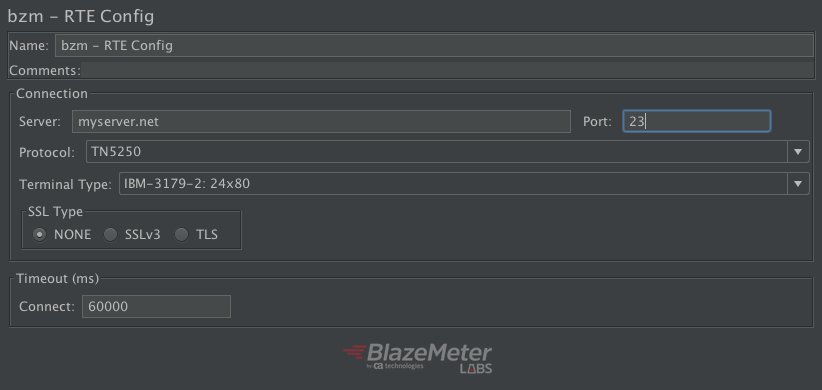
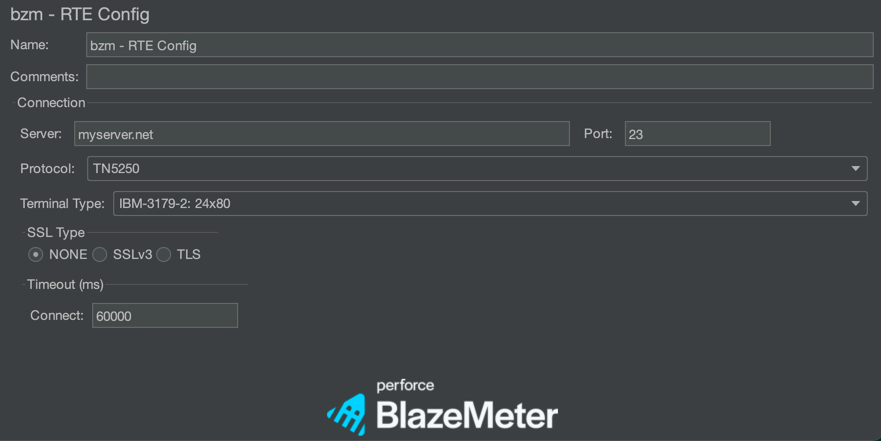
Release v3.3.1 (#44)
Blazemeter rebranding

Changed region(s): [[0.0, 0.0, 1.0, 0.8], [0.365, 0.8615, 0.6387, 0.9846]]

diff --git a/src/main/java/com/blazemeter/jmeter/rte/sampler/gui/RTESamplerPanel.java b/src/main/java/com/blazemeter/jmeter/rte/sampler/gui/RTESamplerPanel.java
@@ -1,8 +1,10 @@
 package com.blazemeter.jmeter.rte.sampler.gui;
 
+import com.blazemeter.jmeter.commons.BlazemeterLabsLogo;
 import com.blazemeter.jmeter.rte.core.AttentionKey;
 import com.blazemeter.jmeter.rte.sampler.Action;
 import com.blazemeter.jmeter.rte.sampler.RTESampler;
+import java.awt.BorderLayout;
 import java.awt.FlowLayout;
 import java.awt.Font;
 import java.awt.GridLayout;
@@ -28,8 +30,8 @@ public class RTESamplerPanel extends JPanel {
   private static final int TIME_WIDTH = 60;
   private static final String TIMEOUT_LABEL = "Timeout (millis): ";
   private static final int LABEL_TABULATION_SPACE = 50;
-  private final JPanel requestPanel;
-  private final JPanel waitPanel;
+  private JPanel requestPanel;
+  private JPanel waitPanel;
   private final ButtonGroup actionsGroup = new ButtonGroup();
   private final Map<Action, JRadioButton> actions = new EnumMap<>(Action.class);
   private InputPanel payloadPanel;
@@ -76,14 +78,25 @@ public class RTESamplerPanel extends JPanel {
   private JPanel waitDisconnectPanel;
 
   public RTESamplerPanel() {
-    GroupLayout layout = new GroupLayout(this);
+    setLayout(new BorderLayout());
+
+    JPanel contentPanel = createContentPanel();
+    BlazemeterLabsLogo blazemeterLabsLogo = new BlazemeterLabsLogo(
+        "https://github.com/Blazemeter/RTEPlugin");
+
+    add(contentPanel, BorderLayout.CENTER);
+    add(blazemeterLabsLogo, BorderLayout.SOUTH);
+  }
+
+  private JPanel createContentPanel() {
+    JPanel contentPanel = new JPanel();
+    GroupLayout layout = new GroupLayout(contentPanel);
     layout.setAutoCreateGaps(true);
-    this.setLayout(layout);
+    contentPanel.setLayout(layout);
 
     JPanel modePanel = buildModePanel();
     requestPanel = buildRequestPanel();
     waitPanel = buildWaitsPanel();
-    BlazemeterLabsLogo blazemeterLabsLogo = new BlazemeterLabsLogo();
 
     layout.setHorizontalGroup(layout.createParallelGroup()
         .addComponent(modePanel, GroupLayout.DEFAULT_SIZE, GroupLayout.PREFERRED_SIZE,
@@ -91,8 +104,6 @@ public class RTESamplerPanel extends JPanel {
         .addComponent(requestPanel, GroupLayout.DEFAULT_SIZE, GroupLayout.PREFERRED_SIZE,
             Short.MAX_VALUE)
         .addComponent(waitPanel, GroupLayout.DEFAULT_SIZE, GroupLayout.PREFERRED_SIZE,
-            Short.MAX_VALUE)
-        .addComponent(blazemeterLabsLogo, GroupLayout.DEFAULT_SIZE, GroupLayout.PREFERRED_SIZE,
             Short.MAX_VALUE));
     layout.setVerticalGroup(layout.createSequentialGroup()
         .addComponent(modePanel, GroupLayout.PREFERRED_SIZE, GroupLayout.PREFERRED_SIZE,
@@ -100,9 +111,9 @@ public class RTESamplerPanel extends JPanel {
         .addComponent(requestPanel)
         .addComponent(waitPanel, GroupLayout.PREFERRED_SIZE, GroupLayout.PREFERRED_SIZE,
             GroupLayout.PREFERRED_SIZE)
-        .addComponent(blazemeterLabsLogo, GroupLayout.PREFERRED_SIZE, GroupLayout.PREFERRED_SIZE,
-            GroupLayout.PREFERRED_SIZE)
     );
+
+    return contentPanel;
   }
 
   private JPanel buildModePanel() {

diff --git a/src/test/java/com/blazemeter/jmeter/rte/SwingTestRunner.java b/src/test/java/com/blazemeter/jmeter/rte/SwingTestRunner.java
@@ -1,0 +1,71 @@
+package com.blazemeter.jmeter.rte;
+
+import static org.assertj.swing.junit.runner.Formatter.testNameFrom;
+
+import java.io.File;
+import java.nio.file.Paths;
+import java.util.List;
+import org.assertj.core.util.Files;
+import org.assertj.swing.junit.runner.FailureScreenshotTaker;
+import org.junit.rules.MethodRule;
+import org.junit.runners.BlockJUnit4ClassRunner;
+import org.junit.runners.model.FrameworkMethod;
+import org.junit.runners.model.InitializationError;
+import org.junit.runners.model.Statement;
+import org.mockito.junit.MockitoJUnit;
+import org.mockito.quality.Strictness;
+
+/**
+ * Class which takes screenshot captures when a test fails and applies mockito rule (building mocks,
+ * reset, etc).
+ * <p>
+ * We use this to avoid having to use GuiTestRunner which requires GuiTest annotation and also would
+ * require definition of Mockito rule for proper mocks initialization. Additionally, this class uses
+ * existing failsafe reports directory to put failed-gui-tests which is cleaner than creating such
+ * directory in root project directory (which is what GuiTestRunner does).
+ */
+public class SwingTestRunner extends BlockJUnit4ClassRunner {
+
+  private static final FailureScreenshotTaker SCREENSHOT_TAKER = new FailureScreenshotTaker(
+      buildGuiScreenshotsFolder());
+  private static final MethodRule MOCKITO_RULE = MockitoJUnit.rule().strictness(Strictness.LENIENT);
+
+  private static File buildGuiScreenshotsFolder() {
+    File ret = Paths.get("target", "failsafe-reports", "failed-gui-tests").toFile();
+    Files.delete(ret);
+    ret.mkdirs();
+    return ret;
+  }
+
+  public SwingTestRunner(Class<?> klass) throws InitializationError {
+    super(klass);
+  }
+
+  @Override
+  protected Statement methodInvoker(FrameworkMethod method, Object test) {
+    return new Statement() {
+      @Override
+      public void evaluate() throws Throwable {
+        try {
+          method.invokeExplosively(test);
+        } catch (Throwable t) {
+          takeScreenshot();
+          throw t;
+        }
+      }
+
+      private void takeScreenshot() {
+        SCREENSHOT_TAKER
+            .saveScreenshot(testNameFrom(method.getDeclaringClass(), method.getMethod()));
+      }
+    };
+  }
+
+  @Override
+  protected List<MethodRule> rules(Object target) {
+    List<MethodRule> ret = super.rules(target);
+    ret.add(MOCKITO_RULE);
+    return ret;
+  }
+
+}

diff --git a/src/main/java/com/blazemeter/jmeter/rte/recorder/RTERecorderGui.java b/src/main/java/com/blazemeter/jmeter/rte/recorder/RTERecorderGui.java
@@ -1,6 +1,6 @@
 package com.blazemeter.jmeter.rte.recorder;
 
-import com.blazemeter.jmeter.rte.sampler.gui.BlazemeterLabsLogo;
+import com.blazemeter.jmeter.commons.BlazemeterLabsLogo;
 import com.helger.commons.annotation.VisibleForTesting;
 import java.awt.BorderLayout;
 import java.util.Collection;
@@ -27,7 +27,8 @@ public class RTERecorderGui extends LogicControllerGui implements JMeterGUICompo
     setBorder(makeBorder());
     add(makeTitlePanel(), BorderLayout.NORTH);
     add(recordingPanel, BorderLayout.CENTER);
-    add(new BlazemeterLabsLogo(), BorderLayout.AFTER_LAST_LINE);
+    add(new BlazemeterLabsLogo("https://github.com/Blazemeter/RTEPlugin"),
+        BorderLayout.AFTER_LAST_LINE);
 
     String jMeterBinDirPath = getJMeterBinDirPath();
 
@@ -51,11 +52,11 @@ public class RTERecorderGui extends LogicControllerGui implements JMeterGUICompo
         .getPath();
 
     /*
-    * This is done to obtain and remove the initial `/` from the path.
-    * i.e: In Windows the path would be something like `/C:`,
-    * so we check if the char at position 3 is ':' and if
-    * so, we remove the initial '/'.
-    */
+     * This is done to obtain and remove the initial `/` from the path.
+     * i.e: In Windows the path would be something like `/C:`,
+     * so we check if the char at position 3 is ':' and if
+     * so, we remove the initial '/'.
+     */
     char middleChar = rtePluginPath.charAt(2);
     if (middleChar == ':') {
       rtePluginPath = rtePluginPath.substring(1);

diff --git a/src/test/java/com/blazemeter/jmeter/rte/recorder/emulator/Xtn5250TerminalEmulatorIT.java b/src/test/java/com/blazemeter/jmeter/rte/recorder/emulator/Xtn5250TerminalEmulatorIT.java
@@ -13,6 +13,7 @@ import static org.mockito.Mockito.verify;
 import static org.mockito.Mockito.when;
 
 import com.blazemeter.jmeter.rte.JMeterTestUtils;
+import com.blazemeter.jmeter.rte.SwingTestRunner;
 import com.blazemeter.jmeter.rte.core.AttentionKey;
 import com.blazemeter.jmeter.rte.core.CharacterBasedProtocolClient;
 import com.blazemeter.jmeter.rte.core.CoordInput;
@@ -71,15 +72,15 @@ import org.assertj.swing.timing.Condition;
 import org.junit.After;
 import org.junit.Before;
 import org.junit.BeforeClass;
+import org.junit.Ignore;
 import org.junit.Rule;
 import org.junit.Test;
 import org.junit.runner.RunWith;
 import org.mockito.Mock;
 import org.mockito.internal.stubbing.answers.AnswersWithDelay;
-import org.mockito.junit.MockitoJUnitRunner;
 
-
-@RunWith(MockitoJUnitRunner.class)
+@Ignore
+@RunWith(SwingTestRunner.class)
 public class Xtn5250TerminalEmulatorIT {
 
   public static final String GOODBYE_TEXT = "Thanks for use testing login";

diff --git a/src/test/java/com/blazemeter/jmeter/rte/sampler/gui/RTESamplerPanelIT.java b/src/test/java/com/blazemeter/jmeter/rte/sampler/gui/RTESamplerPanelIT.java
@@ -5,6 +5,7 @@ import static org.assertj.swing.timing.Pause.pause;
 import static org.assertj.swing.timing.Timeout.timeout;
 
 import com.blazemeter.jmeter.rte.JMeterTestUtils;
+import com.blazemeter.jmeter.rte.SwingTestRunner;
 import com.blazemeter.jmeter.rte.sampler.Action;
 import java.util.ArrayList;
 import java.util.Collections;
@@ -20,7 +21,9 @@ import org.junit.After;
 import org.junit.Before;
 import org.junit.BeforeClass;
 import org.junit.Test;
+import org.junit.runner.RunWith;
 
+@RunWith(SwingTestRunner.class)
 public class RTESamplerPanelIT {
 
   private static final String REQUEST_PANEL = "requestPanel";
@@ -213,7 +216,7 @@ public class RTESamplerPanelIT {
       }
     }, timeout(CHANGE_TIMEOUT_MILLIS));
   }
-  
+
   @Test
   public void shouldDisableDisconnectWaitTimeoutFieldWhenIsNotChecked() {
     switchCheckboxTo(false, frame.checkBox(WAIT_DISCONNECT));

diff --git a/src/main/java/com/blazemeter/jmeter/rte/extractor/RTEExtractorGui.java b/src/main/java/com/blazemeter/jmeter/rte/extractor/RTEExtractorGui.java
@@ -1,6 +1,6 @@
 package com.blazemeter.jmeter.rte.extractor;
 
-import com.blazemeter.jmeter.rte.sampler.gui.BlazemeterLabsLogo;
+import com.blazemeter.jmeter.commons.BlazemeterLabsLogo;
 import java.awt.BorderLayout;
 import org.apache.jmeter.processor.gui.AbstractPostProcessorGui;
 import org.apache.jmeter.testelement.TestElement;
@@ -15,7 +15,8 @@ public class RTEExtractorGui extends AbstractPostProcessorGui {
     setBorder(makeBorder());
     add(makeTitlePanel(), BorderLayout.NORTH);
     add(extractorPanel, BorderLayout.CENTER);
-    add(new BlazemeterLabsLogo(), BorderLayout.AFTER_LAST_LINE);
+    add(new BlazemeterLabsLogo("https://github.com/Blazemeter/RTEPlugin"),
+        BorderLayout.AFTER_LAST_LINE);
   }
 
   @Override

diff --git a/src/main/java/com/blazemeter/jmeter/rte/sampler/gui/ThemedIcon.java b/src/main/java/com/blazemeter/jmeter/rte/sampler/gui/ThemedIcon.java
@@ -20,7 +20,15 @@ public class ThemedIcon {
   }
 
   public static String getResourcePath() {
-    return ThemedIcon.class.getResource(getThemePath()).toString();
+    // ThemedIcon.class.getResource use a relative to classLoader and can return
+    // resources from others jars that match the pattern to find
+    // The safe way is using the find of the resource of the class and get the jar path
+    // to generate the correct path to the resource file
+    String jarPath =
+        ThemedIcon.class.getResource(
+            '/' + ThemedIcon.class.getName().replace('.', '/') +
+                ".class").toString().split("!")[0];
+    return jarPath + "!" + getThemePath();
   }
 
 }

diff --git a/src/test/java/com/blazemeter/jmeter/rte/recorder/RTERecorderPanelIT.java b/src/test/java/com/blazemeter/jmeter/rte/recorder/RTERecorderPanelIT.java
@@ -6,6 +6,7 @@ import static org.mockito.Mockito.timeout;
 import static org.mockito.Mockito.verify;
 
 import com.blazemeter.jmeter.rte.JMeterTestUtils;
+import com.blazemeter.jmeter.rte.SwingTestRunner;
 import com.blazemeter.jmeter.rte.core.Protocol;
 import com.blazemeter.jmeter.rte.core.TerminalType;
 import com.blazemeter.jmeter.rte.core.ssl.SSLType;
@@ -27,7 +28,7 @@ import org.mockito.junit.MockitoJUnit;
 import org.mockito.junit.MockitoJUnitRunner;
 import org.mockito.junit.VerificationCollector;
 
-@RunWith(MockitoJUnitRunner.class)
+@RunWith(SwingTestRunner.class)
 public class RTERecorderPanelIT {
 
   private static final String PORT = "80";

diff --git a/src/test/java/com/blazemeter/jmeter/rte/sampler/gui/InputPanelIT.java b/src/test/java/com/blazemeter/jmeter/rte/sampler/gui/InputPanelIT.java
@@ -5,6 +5,7 @@ import static org.assertj.swing.timing.Pause.pause;
 import static org.assertj.swing.timing.Timeout.timeout;
 
 import com.blazemeter.jmeter.rte.JMeterTestUtils;
+import com.blazemeter.jmeter.rte.SwingTestRunner;
 import com.blazemeter.jmeter.rte.core.CoordInput;
 import com.blazemeter.jmeter.rte.core.Input;
 import com.blazemeter.jmeter.rte.core.LabelInput;
@@ -42,7 +43,9 @@ import org.junit.After;
 import org.junit.Before;
 import org.junit.BeforeClass;
 import org.junit.Test;
+import org.junit.runner.RunWith;
 
+@RunWith(SwingTestRunner.class)
 public class InputPanelIT {
 
   private static final long CHANGE_TIMEOUT_MILLIS = 10000;

diff --git a/src/main/java/com/blazemeter/jmeter/rte/sampler/gui/RTEConfigGui.java b/src/main/java/com/blazemeter/jmeter/rte/sampler/gui/RTEConfigGui.java
@@ -1,5 +1,6 @@
 package com.blazemeter.jmeter.rte.sampler.gui;
 
+import com.blazemeter.jmeter.commons.BlazemeterLabsLogo;
 import com.blazemeter.jmeter.rte.core.Protocol;
 import com.blazemeter.jmeter.rte.core.ssl.SSLType;
 import com.blazemeter.jmeter.rte.sampler.RTESampler;
@@ -22,7 +23,7 @@ public class RTEConfigGui extends AbstractConfigGui {
 
     add(makeTitlePanel(), BorderLayout.NORTH);
     add(rteConfigPanelConfigPanel, BorderLayout.CENTER);
-    add(new BlazemeterLabsLogo(), BorderLayout.PAGE_END);
+    add(new BlazemeterLabsLogo("https://github.com/Blazemeter/RTEPlugin"), BorderLayout.PAGE_END);
   }
 
   @VisibleForTesting

diff --git a/src/test/java/com/blazemeter/jmeter/rte/sampler/gui/RTEConfigPanelIT.java b/src/test/java/com/blazemeter/jmeter/rte/sampler/gui/RTEConfigPanelIT.java
@@ -4,6 +4,7 @@ import static org.assertj.swing.fixture.Containers.showInFrame;
 import static org.assertj.swing.timing.Pause.pause;
 
 import com.blazemeter.jmeter.rte.JMeterTestUtils;
+import com.blazemeter.jmeter.rte.SwingTestRunner;
 import com.blazemeter.jmeter.rte.core.Protocol;
 import com.blazemeter.jmeter.rte.core.TerminalType;
 import java.util.ArrayList;
@@ -15,7 +16,9 @@ import org.assertj.swing.timing.Condition;
 import org.junit.After;
 import org.junit.BeforeClass;
 import org.junit.Test;
+import org.junit.runner.RunWith;
 
+@RunWith(SwingTestRunner.class)
 public class RTEConfigPanelIT {
 
   private FrameFixture frame;

diff --git a/src/test/java/com/blazemeter/jmeter/rte/recorder/emulator/StatusPanelIT.java b/src/test/java/com/blazemeter/jmeter/rte/recorder/emulator/StatusPanelIT.java
@@ -4,6 +4,7 @@ import static org.assertj.core.api.Assertions.assertThat;
 import static org.assertj.swing.fixture.Containers.showInFrame;
 import static org.assertj.swing.timing.Pause.pause;
 
+import com.blazemeter.jmeter.rte.SwingTestRunner;
 import com.blazemeter.jmeter.rte.sampler.gui.ThemedIcon;
 import java.awt.Frame;
 import java.awt.Image;
@@ -19,7 +20,9 @@ import org.junit.After;
 import org.junit.Before;
 import org.junit.Rule;
 import org.junit.Test;
+import org.junit.runner.RunWith;
 
+@RunWith(SwingTestRunner.class)
 public class StatusPanelIT {
 
   public static final ImageIcon KEYBOARD_UNLOCKED_ICON = ThemedIcon
